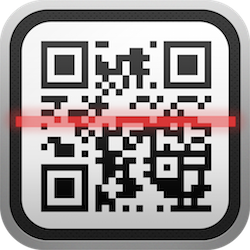
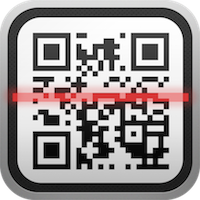
scan button image 7

diff --git a/index.html b/index.html
@@ -124,9 +124,7 @@
 	
 	<BR><BR><BR>
        
-       
-	<button type=submit onclick="javascript:app.scan();" style="background: #ccc url(assets/scanImage.png); padding: 0.5em 1em ; background-color: transparent; border: none !important; height: 250px ; width: 250px;">Go!</button>
-	
+	<button type=submit onclick="javascript:app.scan();" style="background: #ccc url(assets/scanImage.png); padding: 0.5em 1em ; background-color: transparent; border: none !important; height: 200px ; width: 200px; margin:auto;">Go!</button>
 	
         
  
